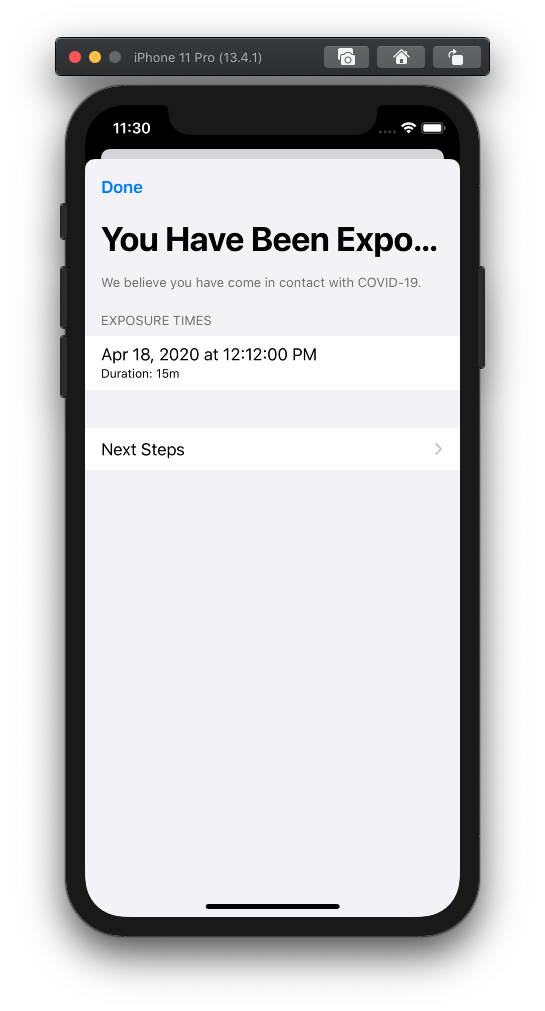
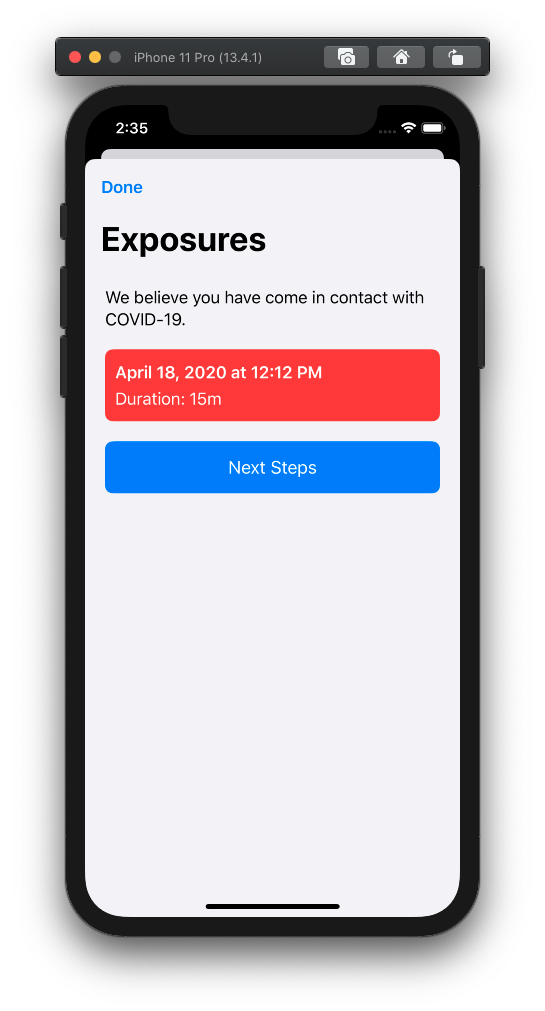
Updating exposures screen

Changed region(s): [[0.1872, 0.2146, 0.811, 0.4906], [0.2183, 0.1227, 0.2807, 0.1533]]

diff --git a/TracePrivately/Classes/View Controllers/ExposedViewController.swift b/TracePrivately/Classes/View Controllers/ExposedViewController.swift
@@ -6,30 +6,30 @@
 import UIKit
 import CoreData
 
-class ExposedViewController: UITableViewController {
+class ExposedViewController: UICollectionViewController {
 
     struct Cells {
-        static let standard = "Cell"
+        static let nextSteps = "NextStepsCell"
+        static let contact = "ExposureCell"
+        static let intro = "IntroCell"
     }
 
-    enum RowType {
+    enum CellType {
         case contact(CTContactInfo)
+        case intro(String)
         case nextSteps
     }
     
     struct Section {
-        let header: String?
-        let footer: String?
-        
-        let rows: [RowType]
+        let cells: [CellType]
     }
     
     var sections: [Section] = []
 
     lazy var timeFormatter: DateFormatter = {
         let ret = DateFormatter()
-        ret.dateStyle = .medium
-        ret.timeStyle = .medium
+        ret.dateStyle = .long
+        ret.timeStyle = .short
         
         return ret
     }()
@@ -44,22 +44,6 @@ class ExposedViewController: UITableViewController {
         return ret
     }()
     
-    lazy var fetchResultsController: NSFetchedResultsController<ExposureContactInfoEntity> = {
-
-        let request = ExposureFetchRequest(includeStatuses: [ .detected ], includeNotificationStatuses: [], sortDirection: .timestampAsc)
-        
-        let controller = NSFetchedResultsController(
-            fetchRequest: request.fetchRequest,
-            managedObjectContext: DataManager.shared.persistentContainer.viewContext,
-            sectionNameKeyPath: nil,
-            cacheName: nil
-        )
-        
-        controller.delegate = self
-        
-        return controller
-    }()
-    
     override func viewDidLoad() {
         super.viewDidLoad()
         
@@ -69,14 +53,6 @@ class ExposedViewController: UITableViewController {
         let button = UIBarButtonItem(barButtonSystemItem: .done, target: self, action: #selector(Self.doneTapped(_:)))
         self.navigationItem.leftBarButtonItem = button
 
-        
-        do {
-            try self.fetchResultsController.performFetch()
-        }
-        catch {
-            
-        }
-        
         let request = ExposureFetchRequest(includeStatuses: [ .detected ], includeNotificationStatuses: [], sortDirection: .timestampAsc)
         
         let context = DataManager.shared.persistentContainer.viewContext
@@ -95,7 +71,9 @@ class ExposedViewController: UITableViewController {
         if contacts.count == 0 {
             let title = String(format: NSLocalizedString("exposure.none.message", comment: ""), Disease.current.localizedTitle)
             self.sections = [
-                Section(header: nil, footer: title, rows: [])
+                Section(cells: [
+                    .intro(title)
+                ])
             ]
         }
         else {
@@ -103,9 +81,9 @@ class ExposedViewController: UITableViewController {
             let title = String(format: NSLocalizedString("exposure.exposed.message", comment: "") , Disease.current.localizedTitle)
 
             self.sections = [
-                Section(header: nil, footer: title, rows: []),
-                Section(header: NSLocalizedString("exposure.times.title", comment: ""), footer: nil, rows: contacts.map { .contact($0)} ),
-                Section(header: nil, footer: nil, rows: [ .nextSteps ])
+                Section(cells: [ .intro(title) ]),
+                Section(cells: contacts.map { .contact($0)}),
+                Section(cells: [ .nextSteps ])
             ]
         }
     }
@@ -116,61 +94,80 @@ class ExposedViewController: UITableViewController {
 }
 
 extension ExposedViewController {
-    override func numberOfSections(in tableView: UITableView) -> Int {
+    override func numberOfSections(in collectionView: UICollectionView) -> Int {
         return self.sections.count
     }
     
-    override func tableView(_ tableView: UITableView, numberOfRowsInSection section: Int) -> Int {
-        return self.sections[section].rows.count
+    override func collectionView(_ collectionView: UICollectionView, numberOfItemsInSection section: Int) -> Int {
+        return self.sections[section].cells.count
     }
     
-    override func tableView(_ tableView: UITableView, titleForHeaderInSection section: Int) -> String? {
-        return self.sections[section].header
-    }
-    
-    override func tableView(_ tableView: UITableView, titleForFooterInSection section: Int) -> String? {
-        return self.sections[section].footer
-    }
-    
-    override func tableView(_ tableView: UITableView, cellForRowAt indexPath: IndexPath) -> UITableViewCell {
-        let cell = tableView.dequeueReusableCell(withIdentifier: Cells.standard, for: indexPath)
+    override func collectionView(_ collectionView: UICollectionView, cellForItemAt indexPath: IndexPath) -> UICollectionViewCell {
 
-        let rowType = self.sections[indexPath.section].rows[indexPath.row]
+        let rowType = self.sections[indexPath.section].cells[indexPath.row]
         
         switch rowType {
+        case .intro(let str):
+            
+            let cell = collectionView.dequeueReusableCell(withReuseIdentifier: Cells.intro, for: indexPath)
+            
+            if let cell = cell as? ExposedIntroCell {
+                cell.label.text = str
+            }
+            
+            return cell
+            
         case .contact(let contact):
-            cell.textLabel?.text = self.timeFormatter.string(from: contact.date)
-            
-            
-            if let str = self.durationFormatter.string(from: contact.duration) {
-                cell.detailTextLabel?.text = String(format: NSLocalizedString("exposure.times.duration", comment: ""), str)
+
+            let cell = collectionView.dequeueReusableCell(withReuseIdentifier: Cells.contact, for: indexPath)
+                
+            if let cell = cell as? ExposedContactCell {
+
+                cell.timeLabel.text = self.timeFormatter.string(from: contact.date)
+
+                if let str = self.durationFormatter.string(from: contact.duration) {
+                    cell.durationLabel?.text = String(format: NSLocalizedString("exposure.times.duration", comment: ""), str)
+                }
+                else {
+                    cell.durationLabel?.text = nil
+                }
+                
+                if contact.duration < 600 {
+                    cell.contentView.backgroundColor = UIColor.systemOrange
+                }
+                else {
+                    cell.contentView.backgroundColor = UIColor.systemRed
+                }
             }
-            else {
-                cell.detailTextLabel?.text = nil
-            }
             
-            cell.selectionStyle = .none
-            cell.accessoryType = .none
-            
+            return cell
+
         case .nextSteps:
-            cell.textLabel?.text = NSLocalizedString("exposure.next_steps.title", comment: "")
-            cell.detailTextLabel?.text = nil
-            cell.accessoryType = .disclosureIndicator
+            let cell = collectionView.dequeueReusableCell(withReuseIdentifier: Cells.nextSteps, for: indexPath)
+            
+            if let cell = cell as? ExposedNextStepsCell {
+                cell.label.text = NSLocalizedString("exposure.next_steps.title", comment: "")
+            }
+            
+            return cell
         }
-        
-        return cell
     }
     
-    override func tableView(_ tableView: UITableView, didSelectRowAt indexPath: IndexPath) {
+    override func collectionView(_ collectionView: UICollectionView, didSelectItemAt indexPath: IndexPath) {
         
-        let rowType = self.sections[indexPath.section].rows[indexPath.row]
+        let rowType = self.sections[indexPath.section].cells[indexPath.row]
         
-        tableView.deselectRow(at: indexPath, animated: true)
-
         switch rowType {
-        case .contact:
+        case .intro:
             break
             
+        case .contact:
+            let alert = UIAlertController(title: "Exposure Info", message: "TODO", preferredStyle: .alert)
+            
+            alert.addAction(UIAlertAction(title: NSLocalizedString("ok", comment: ""), style: .default, handler: nil))
+            
+            self.present(alert, animated: true, completion: nil)
+
         case .nextSteps:
             let alert = UIAlertController(title: NSLocalizedString("exposure.next_steps.title", comment: ""), message: NSLocalizedString("exposure.next_steps.message", comment: ""), preferredStyle: .alert)
             
@@ -182,6 +179,80 @@ extension ExposedViewController {
     }
 }
 
-extension ExposedViewController: NSFetchedResultsControllerDelegate {
+extension ExposedViewController: UICollectionViewDelegateFlowLayout {
+    func collectionView(_ collectionView: UICollectionView, layout collectionViewLayout: UICollectionViewLayout, insetForSectionAt section: Int) -> UIEdgeInsets {
+        
+        if section == 0 {
+            return UIEdgeInsets(top: 20, left: 20, bottom: 20, right: 20)
+        }
+        else {
+            return UIEdgeInsets(top: 0, left: 20, bottom: 20, right: 20)
+        }
+    }
     
+    func collectionView(_ collectionView: UICollectionView, layout collectionViewLayout: UICollectionViewLayout, sizeForItemAt indexPath: IndexPath) -> CGSize {
+        
+        let insets = self.collectionView(collectionView, layout: collectionViewLayout, insetForSectionAt: indexPath.section)
+        
+        let width = collectionView.frame.size.width - insets.left - insets.right
+        
+        let rowType = self.sections[indexPath.section].cells[indexPath.row]
+        
+        switch rowType {
+        case .contact:
+            return CGSize(width: width, height: 72)
+
+        case .intro(let str):
+            let font = UIFont.preferredFont(forTextStyle: .body)
+            let size = font.sizeOfString(string: str, constrainedToWidth: width)
+
+            return CGSize(width: width, height: size.height)
+            
+        case .nextSteps:
+            return CGSize(width: width, height: 52)
+        }
+        
+    }
+    
+    func collectionView(_ collectionView: UICollectionView, layout collectionViewLayout: UICollectionViewLayout, minimumInteritemSpacingForSectionAt section: Int) -> CGFloat {
+        return 20
+    }
+    
+    func collectionView(_ collectionView: UICollectionView, layout collectionViewLayout: UICollectionViewLayout, minimumLineSpacingForSectionAt section: Int) -> CGFloat {
+        return 20
+    }
 }
+
+class ExposedIntroCell: UICollectionViewCell {
+    @IBOutlet var label: UILabel!
+}
+
+class ExposedNextStepsCell: UICollectionViewCell {
+    @IBOutlet var label: UILabel!
+    
+    override func layoutSubviews() {
+        super.layoutSubviews()
+        
+        if #available(iOS 13.0, *) {
+            self.layer.cornerCurve = .continuous
+        }
+        
+        self.layer.cornerRadius = 8
+    }
+}
+
+class ExposedContactCell: UICollectionViewCell {
+    @IBOutlet var timeLabel: UILabel!
+    @IBOutlet var durationLabel: UILabel!
+    
+    override func layoutSubviews() {
+        super.layoutSubviews()
+        
+        if #available(iOS 13.0, *) {
+            self.layer.cornerCurve = .continuous
+        }
+        
+        self.layer.cornerRadius = 8
+    }
+}
+

diff --git a/TracePrivately/Classes/View Controllers/MainViewController.swift b/TracePrivately/Classes/View Controllers/MainViewController.swift
@@ -46,7 +46,7 @@ class MainViewController: UIViewController {
 
         self.title = NSLocalizedString("app.title", comment: "")
         
-        self.exposedButton.setTitle(NSLocalizedString("exposure.exposed.title", comment: ""), for: .normal)
+        self.exposedButton.setTitle(NSLocalizedString("exposure.exposed.banner.title", comment: ""), for: .normal)
         self.pendingButton.setTitle(NSLocalizedString("infection.pending.title", comment: ""), for: .normal)
         self.infectedButton.setTitle(NSLocalizedString("infection.infected.title", comment: ""), for: .normal)
         self.tracingOnButton.setTitle(NSLocalizedString("tracing.start.title", comment: ""), for: .normal)

diff --git a/TracePrivately/Classes/FontExtension.swift b/TracePrivately/Classes/FontExtension.swift
@@ -1,0 +1,20 @@
+//
+//  FontExtension.swift
+//  TracePrivately
+//
+
+import UIKit
+
+extension UIFont {
+    func sizeOfString(string: String, constrainedToWidth width: CGFloat) -> CGSize {
+        let label = UILabel()
+        label.font = self
+        label.numberOfLines = 0
+        label.text = string
+        label.lineBreakMode = .byWordWrapping
+        
+        let rect = label.textRect(forBounds: CGRect(x: 0, y: 0, width: width, height: .greatestFiniteMagnitude), limitedToNumberOfLines: 0)
+        return rect.size
+    }
+}
+
